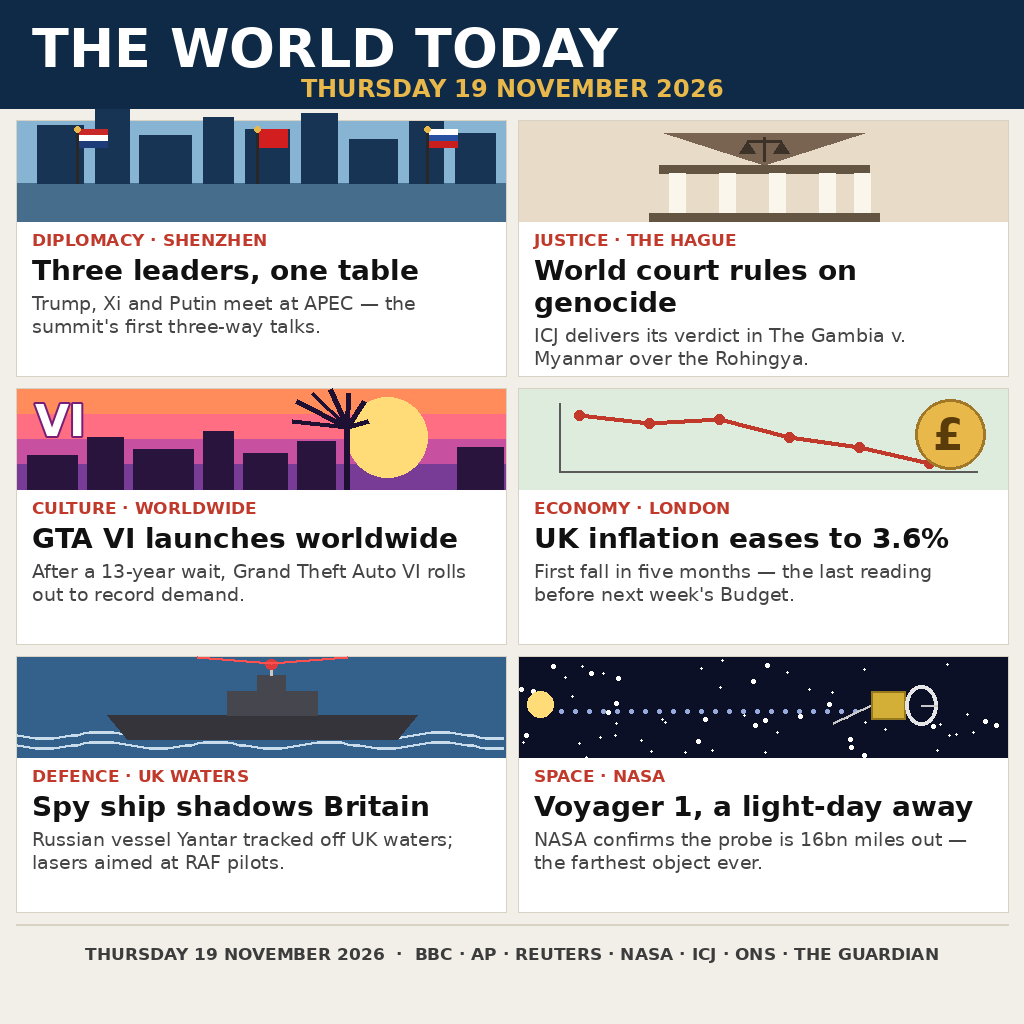
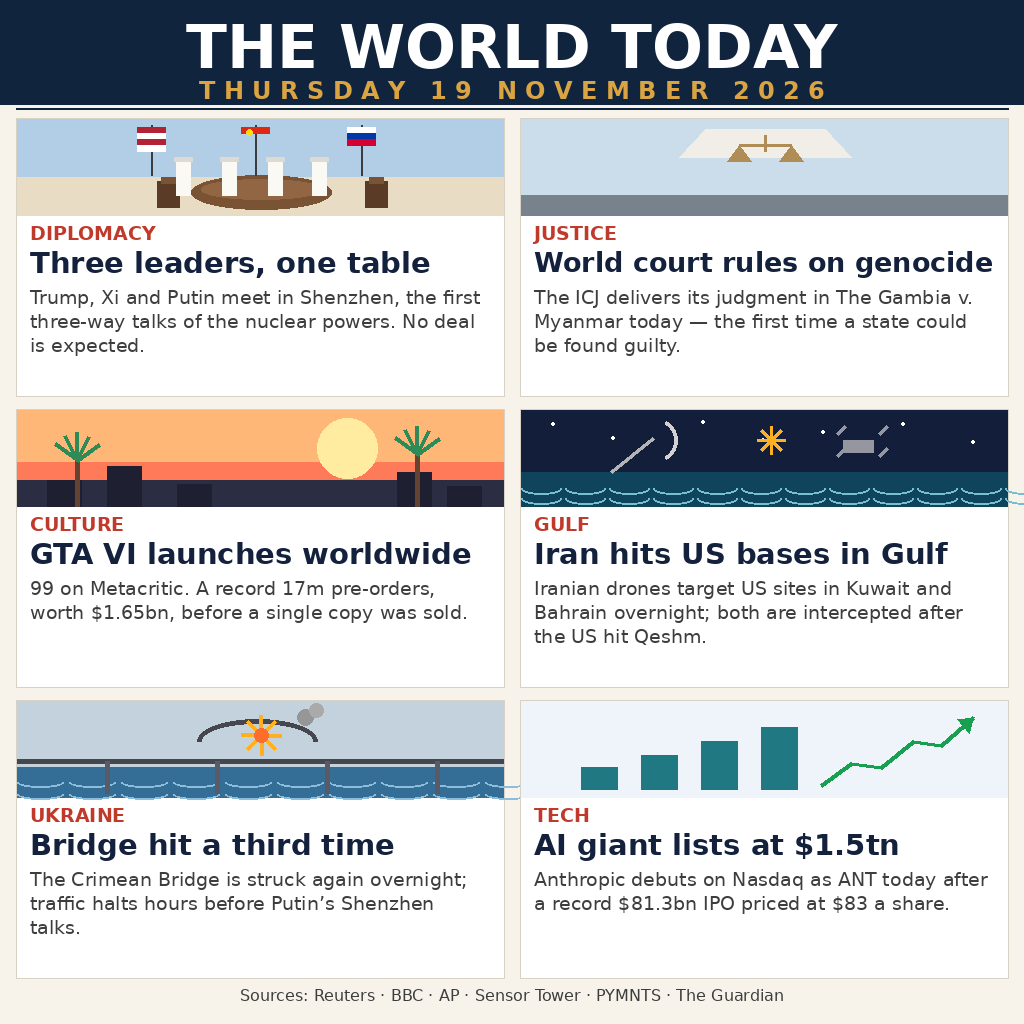
Round 2: refresh with the fuller's day news — Iran-Gulf strikes, third Crimean Bridge hit, Anthropic Nasdaq debut

diff --git a/main.py b/main.py
@@ -1,35 +1,35 @@
 #!/usr/bin/env python3
-"""news-image-20261119 entry: write the day's news image to /output/entry.png.
+"""Entrypoint for the news-image-20261119 v2 entry.
 
-The image is held in this repository as entry.png; this program copies it to
-the output directory. No network, fully deterministic: the same bytes every run.
+Copies the bundled entry.png to $MAKEFUN_OUTPUT_DIR/entry.png.
+Python standard library only, no network access, deterministic.
 """
 import hashlib
 import os
 import shutil
 import sys
 
[1 lines of base64/hex data omitted]
+HERE = os.path.dirname(os.path.abspath(__file__))
+SOURCE = os.path.join(HERE, "entry.png")
[1 lines of base64/hex data omitted]
 
 
-def main() -> int:
-    here = os.path.dirname(os.path.abspath(__file__))
-    src = os.path.join(here, "entry.png")
+def main():
     out_dir = os.environ.get("MAKEFUN_OUTPUT_DIR", "/output")
-    dst = os.path.join(out_dir, "entry.png")
-    if not os.path.isfile(src):
-        print(f"missing entry image: {src}", file=sys.stderr)
+    if not os.path.isfile(SOURCE):
+        print("missing entry.png next to main.py", file=sys.stderr)
         return 1
-    if os.path.getsize(src) > 1048576:
-        print("entry image exceeds 1 MiB", file=sys.stderr)
+    if os.path.getsize(SOURCE) == 0:
+        print("entry.png is empty", file=sys.stderr)
         return 1
     os.makedirs(out_dir, exist_ok=True)
-    shutil.copyfile(src, dst)
-    digest = hashlib.sha256(open(dst, "rb").read()).hexdigest()
+    dest = os.path.join(out_dir, "entry.png")
+    shutil.copyfile(SOURCE, dest)
+    digest = hashlib.sha256(open(dest, "rb").read()).hexdigest()
     if digest != EXPECTED_SHA256:
-        print(f"sha256 mismatch: got {digest}", file=sys.stderr)
+        print("sha256 mismatch for copied entry.png", file=sys.stderr)
         return 1
-    print(f"wrote {dst} ({os.path.getsize(dst)} bytes, sha256 {digest})")
+    print("wrote", dest)
     return 0
 
 

diff --git a/README.md b/README.md
@@ -1,41 +1,29 @@
-# The World Today — 19 November 2026
+# The World Today — 19 November 2026 (round 2)
 
-make.fun `news-image-20261119` entry: one image summing up the world's news of
-Thursday 19 November 2026.
+A 1024x1024 newspaper front page summing up Thursday 19 November 2026 in
+six stories, drawn flat with Python's Pillow library. No AI imagery, no faces.
 
-## The image
+## Stories
 
-`entry.png` (1024×1024, 96,778 bytes) is a hand-drawn newspaper front page —
-navy masthead "THE WORLD TODAY" with the date, then six story tiles:
+1. **Diplomacy** — Trump, Xi and Putin meet in Shenzhen, the first three-way
+   talks of the nuclear powers. No deal is expected.
+2. **Justice** — The ICJ delivers its judgment in The Gambia v. Myanmar today,
+   the first time a state could be found guilty of genocide. No outcome is
+   claimed: the judgment was still being read when this page was made.
+3. **Culture** — GTA VI launches worldwide: 99 on Metacritic, a record 17m
+   pre-orders worth $1.65bn before launch day.
+4. **Gulf** — Iranian drones target US sites in Kuwait and Bahrain overnight;
+   both are intercepted after the US hit Qeshm Island.
+5. **Ukraine** — The Crimean Bridge is struck a third time in a week; traffic
+   halts hours before Putin's Shenzhen talks.
+6. **Tech** — Anthropic debuts on Nasdaq as ANT after a record $81.3bn IPO
+   priced at $83 a share, valuing the company at about $1.5tn.
 
-1. **Diplomacy · Shenzhen** — Trump, Xi and Putin meet at APEC, the summit's
-   first three-way talks.
-2. **Justice · The Hague** — the ICJ delivers its verdict in The Gambia v.
-   Myanmar over the Rohingya.
-3. **Culture · Worldwide** — Grand Theft Auto VI launches after a 13-year wait.
-4. **Economy · London** — UK inflation eases to 3.6%, the first fall in five
-   months, ahead of next week's Budget.
-5. **Defence · UK waters** — Russian vessel Yantar tracked off UK waters;
-   lasers aimed at RAF pilots.
-6. **Space · NASA** — NASA confirms Voyager 1 is one light-day away, 16bn
-   miles out.
+Sources: Reuters, BBC, AP, Sensor Tower, PYMNTS, The Guardian.
 
-Every story is an event of 19 November 2026, verified against that day's
-reporting (BBC, AP, Reuters, NASA, ICJ, ONS, The Guardian). The image was
-drawn with PIL from a throwaway script; no AI imagery, no faces.
+## Run
 
-## The program
-
-`main.py` (Python 3.13, standard library only) copies `entry.png` to
-`$MAKEFUN_OUTPUT_DIR/entry.png` (default `/output`), checking the file's
-sha256 before writing. No network; both runs write the same bytes.
-
-Run it with:
-
-```sh
-mkdir -p out && MAKEFUN_OUTPUT_DIR=out python3 main.py
-```
-
-## Licence
-
-MIT — see `LICENSE`.
+`main.py` copies `entry.png` to `$MAKEFUN_OUTPUT_DIR/entry.png`
+(default `/output`), verifying its sha256 first. Python standard library
+only, no network access, deterministic: running it twice produces
+byte-identical output.
